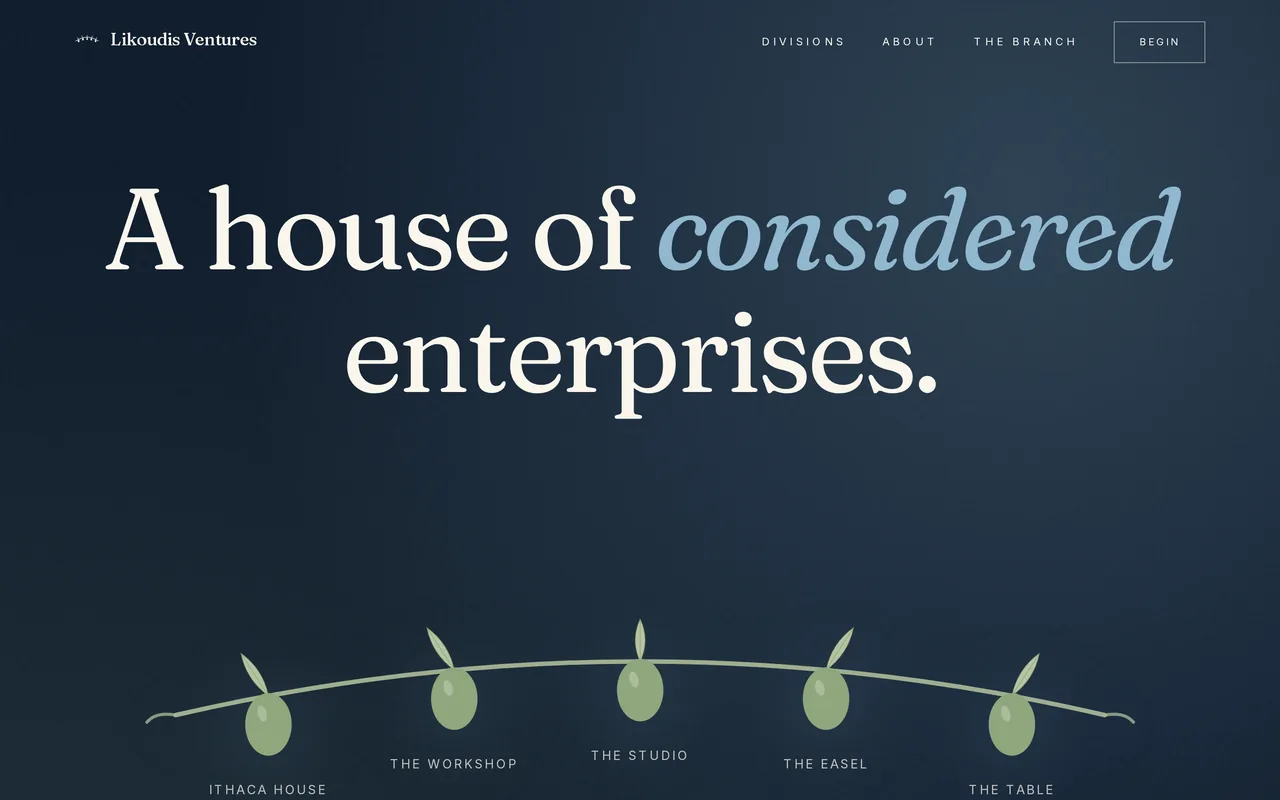
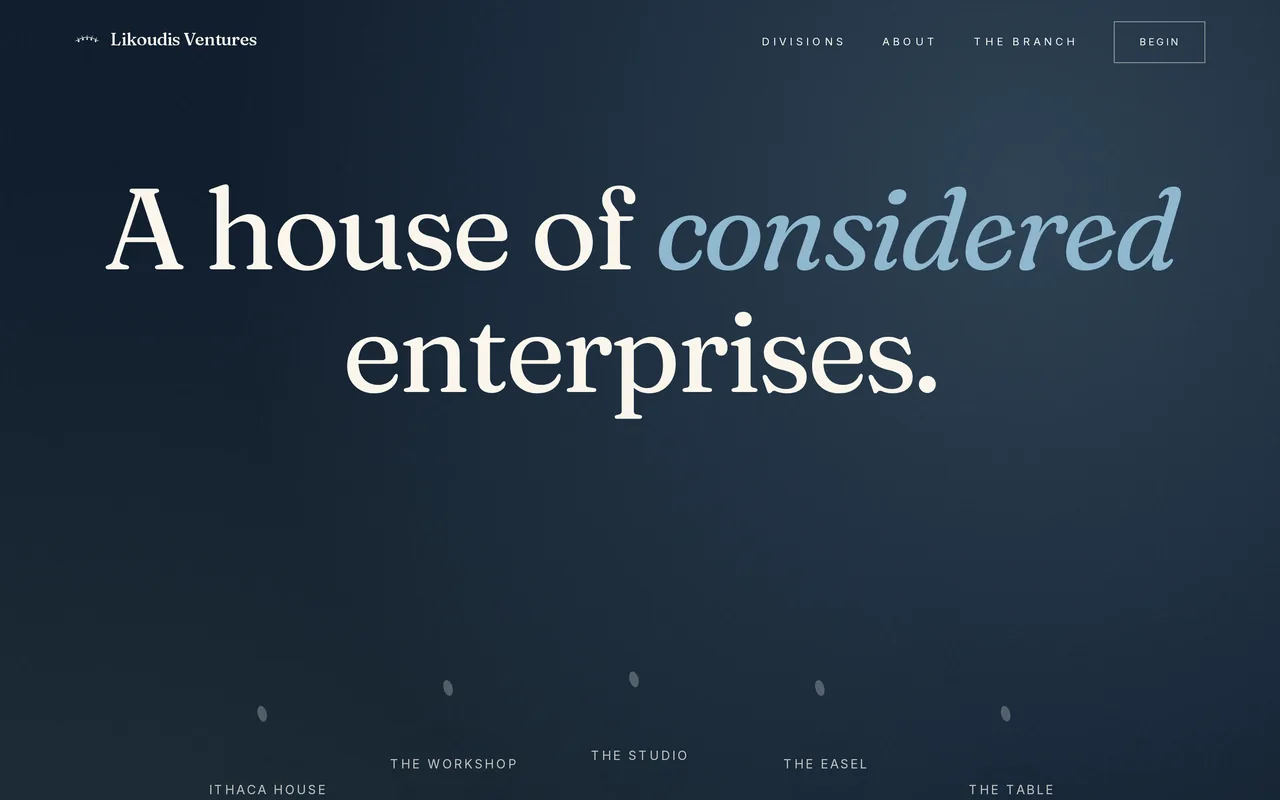
Portfolio: Likoudis Ventures now points to its GitHub copy (note: production hosted on Vercel)

Changed region(s): [[0.125, 0.7812, 0.875, 0.9688]]

diff --git a/index.html b/index.html
@@ -695,14 +695,14 @@
       <a href="https://liquid1188.github.io/AndrewLikoudis/" target="_blank" rel="noopener" class="port-link">View Live Site <svg viewBox="0 0 24 24"><path d="M18 13v6a2 2 0 01-2 2H5a2 2 0 01-2-2V8a2 2 0 012-2h6"/><polyline points="15 3 21 3 21 9"/><line x1="10" y1="14" x2="21" y2="3"/></svg></a>
     </article>
     <article class="port-card">
-      <a class="port-shot" href="https://likoudisventures.vercel.app" target="_blank" rel="noopener" aria-label="Open Likoudis Ventures in a new tab">
-        <div class="port-chrome"><div class="p-dots"><div class="p-dot r"></div><div class="p-dot y"></div><div class="p-dot g"></div></div><div class="p-url">likoudisventures.com</div></div>
+      <a class="port-shot" href="https://liquid1188.github.io/likoudis-ventures/" target="_blank" rel="noopener" aria-label="Open Likoudis Ventures in a new tab">
+        <div class="port-chrome"><div class="p-dots"><div class="p-dot r"></div><div class="p-dot y"></div><div class="p-dot g"></div></div><div class="p-url">liquid1188.github.io/likoudis-ventures</div></div>
         <img class="port-img" src="screenshots/ventures.webp" alt="Likoudis Ventures website homepage" width="1280" height="800" loading="lazy" decoding="async">
       </a>
       <div class="port-tag">Brand Site · Baltimore</div>
       <div class="port-name">Likoudis Ventures</div>
-      <div class="port-desc">A family-held house of enterprises — hospitality, services, web design, original art, and an Ionian pantry under one name. Editorial Next.js build with considered typography.</div>
-      <a href="https://likoudisventures.vercel.app" target="_blank" rel="noopener" class="port-link">View Live Site <svg viewBox="0 0 24 24"><path d="M18 13v6a2 2 0 01-2 2H5a2 2 0 01-2-2V8a2 2 0 012-2h6"/><polyline points="15 3 21 3 21 9"/><line x1="10" y1="14" x2="21" y2="3"/></svg></a>
+      <div class="port-desc">A family-held house of enterprises — hospitality, services, web design, original art, and an Ionian pantry under one name. An editorial Next.js build with considered typography; the live production site is hosted on Vercel.</div>
+      <a href="https://liquid1188.github.io/likoudis-ventures/" target="_blank" rel="noopener" class="port-link">View Live Site <svg viewBox="0 0 24 24"><path d="M18 13v6a2 2 0 01-2 2H5a2 2 0 01-2-2V8a2 2 0 012-2h6"/><polyline points="15 3 21 3 21 9"/><line x1="10" y1="14" x2="21" y2="3"/></svg></a>
     </article>
     <article class="port-card">
       <a class="port-shot" href="https://liquid1188.github.io/brush-and-soul-studio/" target="_blank" rel="noopener" aria-label="Open Brush & Soul Studio in a new tab">
